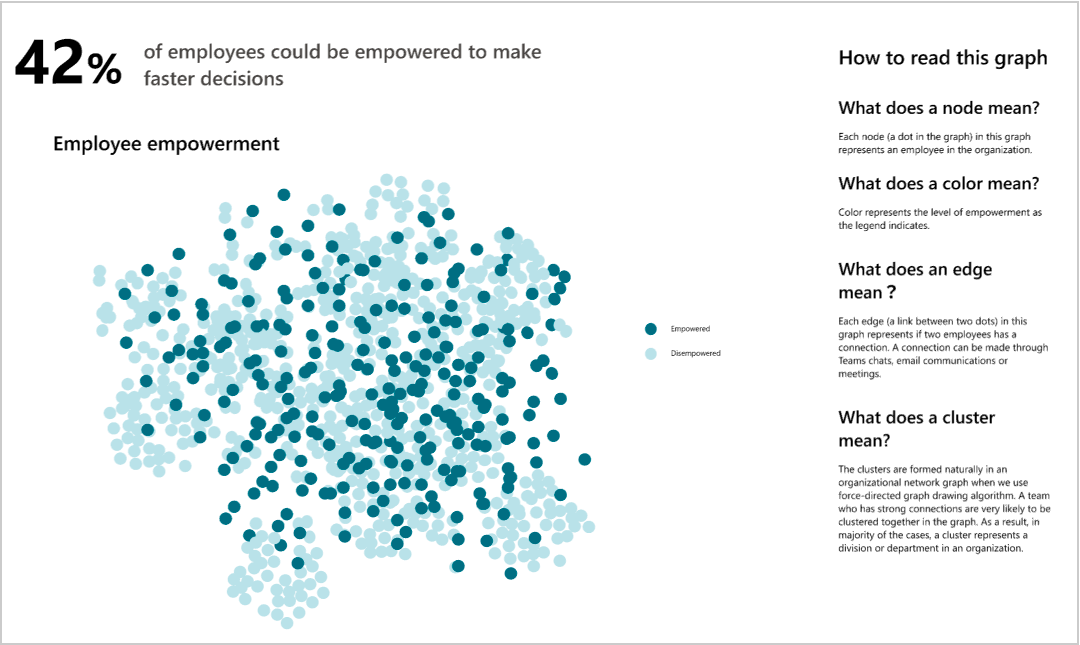
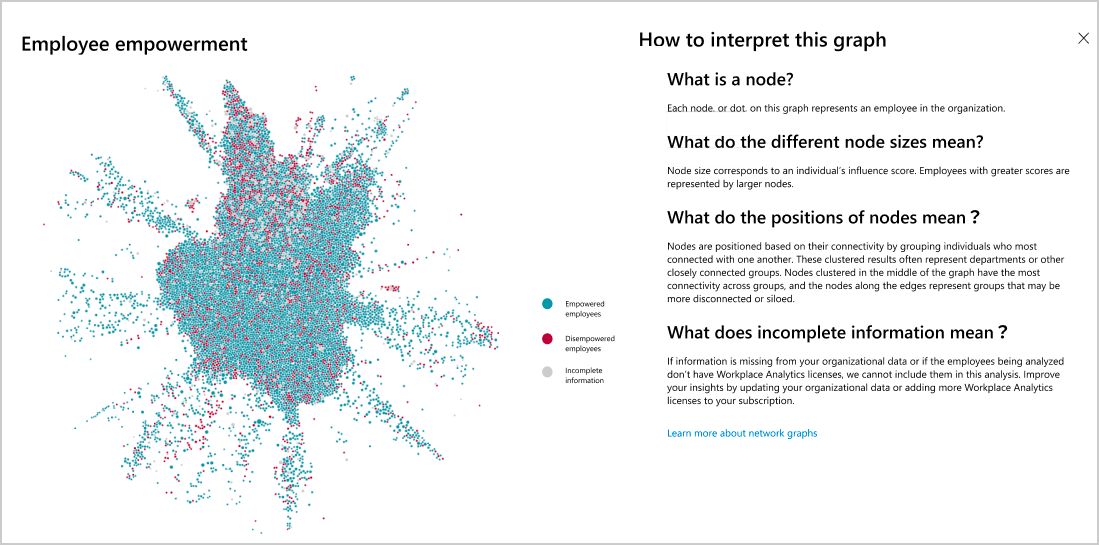
review updates

diff --git a/WorkplaceAnalytics/Use/develop-managers.md b/WorkplaceAnalytics/Use/develop-managers.md
@@ -51,7 +51,7 @@ The following defines the organizational data shown in the visual behavioral ins
 |Promote coaching and development |Distribution 1:1 time with managers each month |An [organizational network graph](insight-ona-measures.md) that shows the percentage of employees based on their monthly average number of [meeting hours with managers 1:1](metric-definitions.md#meeting-hours-with-manager-1-1-define). They are divided into employees who have no 1:1s, between zero and one hour, and more than one hour of 1:1s with their manager in a month. These percentages are calculated monthly and averaged over the entire time period. This graph also uses the [influence metric](metric-definitions.md#organizational-network-analysis-ona-metrics). |
 |Empower employees |Distribution of manager-employee coaching relationships |Uses the average time employees spend with their [managers in 1:1s](metric-definitions.md#meeting-hours-with-manager-1-1-define) and the percentage of [meeting hours with the manager](metric-definitions.md#meeting-hours-with-manager-define) in attendance. The different manager-employee coaching relationships are grouped by employee time percentages that are weekly averages based on the monthly calculations: <ul><li>**Coached** - Spend more than 15 minutes in 1:1s and less than 30 percent of their meeting hours with their managers in attendance.</li><li>**Co-attended** - Spend less than 15 minutes in 1:1s and more than 30 percent of their meeting hours with their managers in attendance. </li><li>**Micromanaged** - Spend more than 15 minutes in 1:1s and more than 30 percent of their meeting hours with their managers in attendance. </li><li>**Under-coached** - Spend less than 15 minutes in 1:1s and less than 30 percent of their meeting hours with their managers in attendance. </li> |
 |Prevent burnout |Distribution of after-hours collaboration from managers |Percentage of managers based on their weekly [after hours collaboration](metric-definitions.md#after-hours-collaboration-define). They are divided into those who spend less than one hour, between one to five hours, and more than five hours collaborating after hours. These percentages are calculated weekly and averaged over the entire time period. |
-|Strengthen management pipeline |Distribution of potential manager candidates |An [organizational network graph](insight-ona-measures.md) that represents the distribution of current managers and potential managers within your organization, based on [influence scores](metric-definitions.md#organizational-network-analysis-ona-metrics). You can use this insight to evaluate future managers with high influence scores who are currently not in managerial roles. |<!--|Foster connectivity |Managers and cross-group connectivity |Shows an organizational network graph representing well-connected managers, less-connected managers, and all other employees based on their network connections within your organization. Enables you to see the impact a manager's network has on engagement and the networks of direct reports. These insights enable you to build more effective manager training programs to improve engagement and broader organizational connectivity. |-->
+|<a name="ona-strengthen-define"></a>Strengthen management pipeline |Distribution of potential manager candidates |An [organizational network graph](insight-ona-measures.md) that represents the distribution of current managers and potential managers within your organization, based on [influence scores](metric-definitions.md#organizational-network-analysis-ona-metrics). You can use this insight to evaluate future managers with high influence scores who are currently not in managerial roles. |<!--|Foster connectivity |Managers and cross-group connectivity |Shows an organizational network graph representing well-connected managers, less-connected managers, and all other employees based on their network connections within your organization. Enables you to see the impact a manager's network has on engagement and the networks of direct reports. These insights enable you to build more effective manager training programs to improve engagement and broader organizational connectivity. |-->
 
 ## Take action
 

diff --git a/WorkplaceAnalytics/Use/insight-ona-measures.md b/WorkplaceAnalytics/Use/insight-ona-measures.md
@@ -17,18 +17,18 @@ The organizational network graphs used for some of the Workplace Analytics visua
 
 The following is an example of an Employee empowerment network graph.
 
-![Employee empowerment network graph](../images/wpa/use/ona-empower.png)
+![Employee empowerment network graph](../images/wpa/use/ee-ona-graph.png)
 
 ## Nodes
 
 In the network graphs, each dot or node represents an employee in the organization. Node size corresponds to an individual’s influence score. Employees with greater scores are represented by larger nodes in the graphs.
 
-The node colors depend on the specific insight as indicated in the graph legends. Gray nodes with no corresponding legend represent those with incomplete manager hierarchy information, managers with missing licenses, or where the employee or manager influence scores are zero.
+The node colors depend on the specific insight as indicated in the graph legends.
 
 ## Available network graphs
 
 For calculation information about a specific network graph, select the applicable behavior.
 
-* [Accelerate decision-making](improve-agility.md#visual-insights) - The **Employee empowerment** graph shows the general distribution of empowered employees and disempowered employees in your organization. This helps identify information sharing patterns, and where they are well represented in your organization. You can use this insight to understand at a high level which parts of your organization could benefit from better information sharing practices.
+* [Accelerate decision-making](improve-agility.md#ona-accelerate-define) - The **Employee empowerment** graph shows the general distribution of empowered employees and disempowered employees in your organization. This helps identify information sharing patterns, and where they are well represented in your organization. You can use this insight to understand at a high level which parts of your organization could benefit from better information sharing practices.
 * [Engage influencers](accelerate-change.md#visual-insight) - The **Reach of influencers** graph shows the influencers, their connections, and how they effectively connect across your organization. This shows people who power the unobservable communication networks that you can target to effectively drive change.
-* [Strengthen management pipeline](develop-managers.md#visual-insights) - The **Distribution of potential manager candidates** graph shows the distribution of current managers, potential managers, and other employees within your organization, based on influence scores. You can use this insight to evaluate future managers with high influence scores who are currently not in managerial roles.
+* [Strengthen management pipeline](develop-managers.md#ona-strengthen-define) - The **Distribution of potential manager candidates** graph shows the distribution of current managers, potential managers, and other employees within your organization, based on influence scores. You can use this insight to evaluate future managers with high influence scores who are currently not in managerial roles.

diff --git a/WorkplaceAnalytics/Use/improve-agility.md b/WorkplaceAnalytics/Use/improve-agility.md
@@ -45,7 +45,7 @@ The following defines the organizational data shown in the visual behavioral ins
 |Behavior |Visual insight | Definition |
 |---------|--------|----------------------|
 |Organize better meetings | Meetings by duration and number of attendees | Shows the percentages of meetings that are [long](glossary.md#long-meeting-define), [large](glossary.md#large-meeting-define), [long and large](glossary.md#long-and-large-meeting-define), and [decision-making meetings](glossary.md#decision-making-meeting-define). |
-|Accelerate decision-making | Employee empowerment | [An organizational network graph](insight-ona-measures.md) that shows the distribution of empowered employees and disempowered employees in your organization. This helps identify information sharing patterns, and where they are well represented in your organization. You can use this insight to understand at a high level which parts of your organization could benefit from better information sharing practices. This graph uses the [influence metric](metric-definitions.md#organizational-network-analysis-ona-metrics). |
+|<a name="ona-accelerate-define"></a> Accelerate decision-making | Employee empowerment | [An organizational network graph](insight-ona-measures.md) that shows the distribution of empowered employees and disempowered employees in your organization. This helps identify information sharing patterns, and where they are well represented in your organization. You can use this insight to understand at a high level which parts of your organization could benefit from better information sharing practices. This graph uses the [influence metric](metric-definitions.md#organizational-network-analysis-ona-metrics). |
 |Improve management practices | Distribution of conflicting meeting hours | Shows the percentage of managers according to the number of their [conflicting meeting](glossary.md#conflicting-meeting-define) hours. These percentages are calculated weekly and averaged over the entire time period. |
 
 ## Take action

diff --git a/WorkplaceAnalytics/Use/insights.md b/WorkplaceAnalytics/Use/insights.md
@@ -56,11 +56,9 @@ In the **Take action** section for each insight, select **Find out more** to see
 
 ## Network graphs
 
-Some of the insight visuals are organizational network analysis (ONA) graphs that help you visualize the collaborative relationships within your organization.
+The organizational network graphs used for some of the Workplace Analytics visual insights use the influence metric to help you visualize and analyze relationships within your organization.
 
-In these network graphs, each dot or node represents an employee or a group. The lines between the nodes represent connections, which are collaborative relationships between them. The node measures for employees are de-identified to maintain their privacy. Group node measures represent the group's measures, such as for a department (Sales) or a functional group (program managers) within the organization.
-
-For details, see [Organizational network metrics](insight-ona-measures.md).
+In these network graphs, each dot or node represents an employee. The node measures for employees are de-identified to maintain their privacy. For details, see [Organizational network metrics](insight-ona-measures.md).
 
 ## Error states
 
